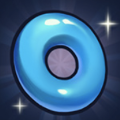
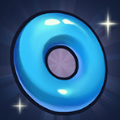
feat: Update _receive_daily_bonus()

diff --git a/src/majsoulrpa/presentation/home.py b/src/majsoulrpa/presentation/home.py
@@ -78,7 +78,7 @@ class HomePresentation(Presentation):
 
     async def _receive_daily_bonus(self) -> None:
         try:
-            async with asyncio.timeout(6):
+            async with asyncio.timeout(5):
                 await self._click_when_match(self._templates["jade"])
         except TimeoutError as e:
             msg = "Daily bonus jade was not detected."
